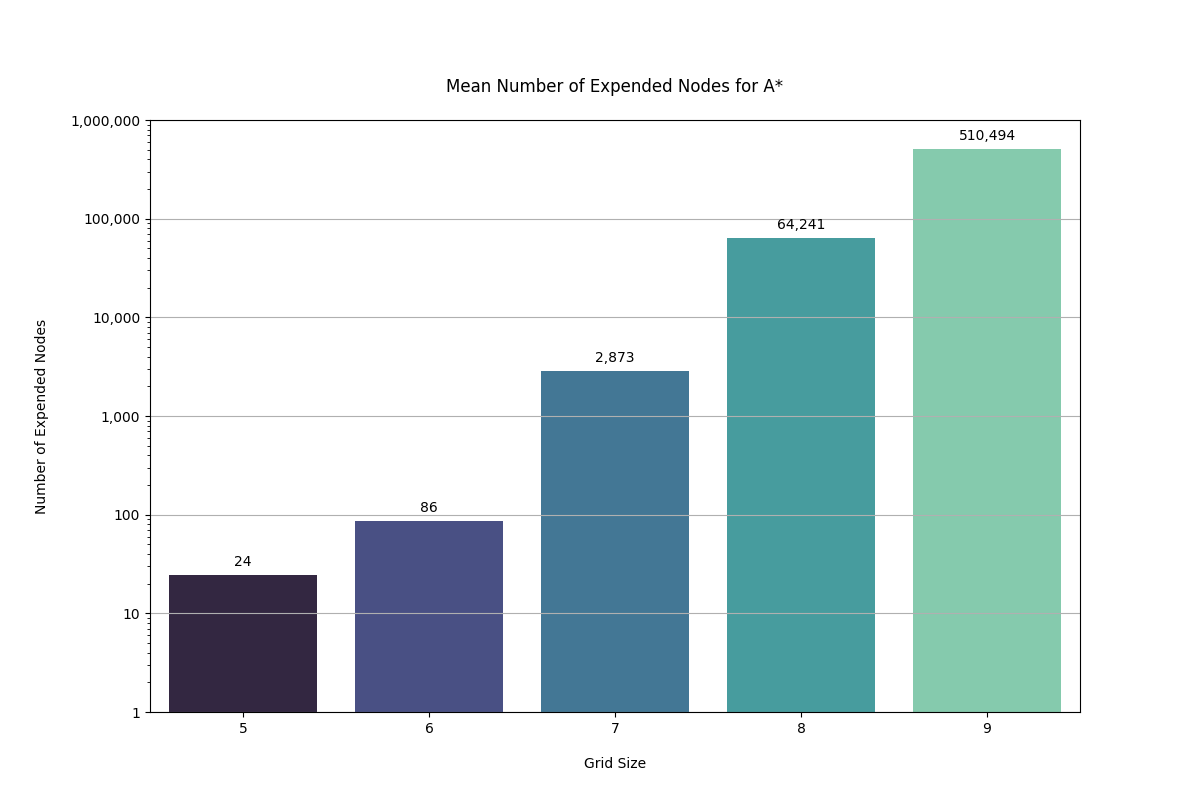
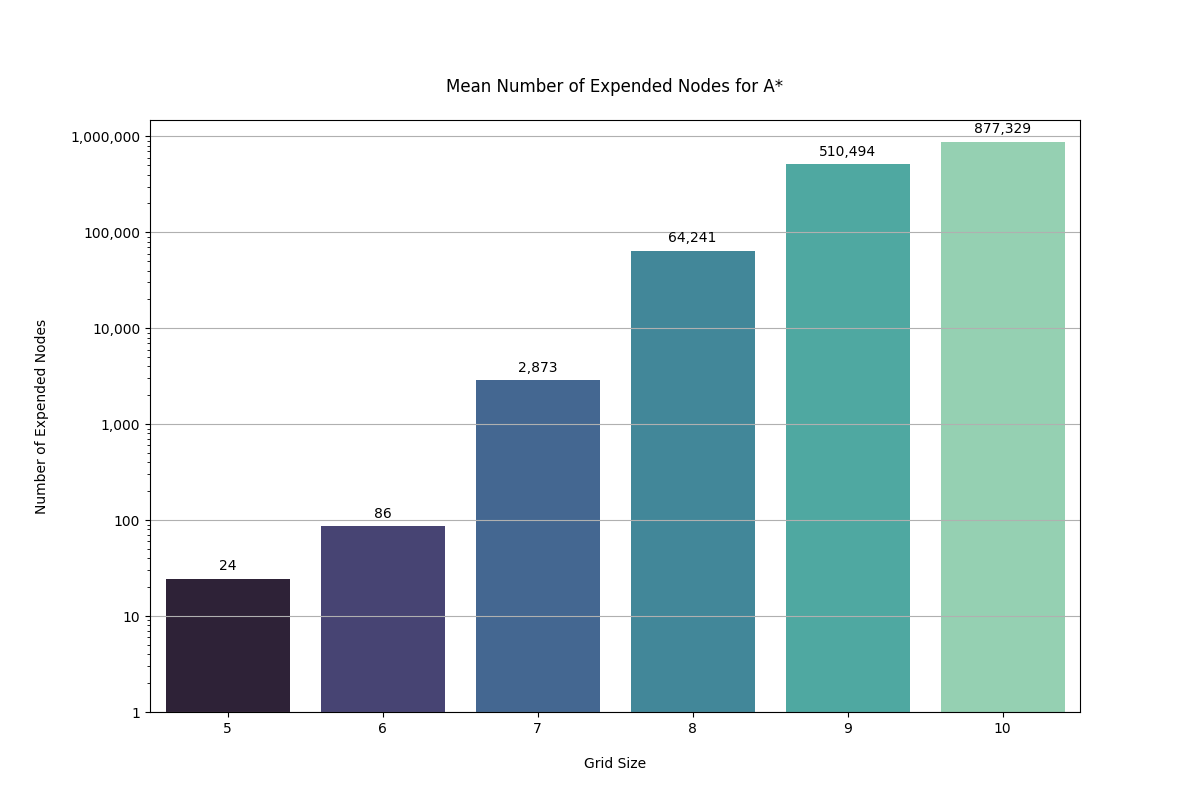
added 10 grid results

diff --git a/results/plots.py b/results/plots.py
@@ -220,16 +220,16 @@ if __name__ == "__main__":
     # create_sat_results_bar_plot(sat_results)
 
     # Search results
-    # create_single_search_algo_bar_plot("BFS", search_results)
-    # create_single_search_algo_bar_plot("DFS", search_results)
-    # create_single_search_algo_bar_plot("UCS", search_results)
-    # create_single_search_algo_bar_plot("A*", search_results)
-    # create_expended_nodes_bar_plot("BFS", search_results)
-    # create_expended_nodes_bar_plot("DFS", search_results)
-    # create_expended_nodes_bar_plot("UCS", search_results)
-    # create_expended_nodes_bar_plot("A*", search_results)
-    # create_bar_plot_for_all_search_algorithms(search_results)
-    # create_expended_nodes_bar_plot_for_all_search_algorithms(search_results)
+    create_single_search_algo_bar_plot("BFS", search_results)
+    create_single_search_algo_bar_plot("DFS", search_results)
+    create_single_search_algo_bar_plot("UCS", search_results)
+    create_single_search_algo_bar_plot("A*", search_results)
+    create_expended_nodes_bar_plot("BFS", search_results)
+    create_expended_nodes_bar_plot("DFS", search_results)
+    create_expended_nodes_bar_plot("UCS", search_results)
+    create_expended_nodes_bar_plot("A*", search_results)
+    create_bar_plot_for_all_search_algorithms(search_results)
+    create_expended_nodes_bar_plot_for_all_search_algorithms(search_results)
 
 
 
